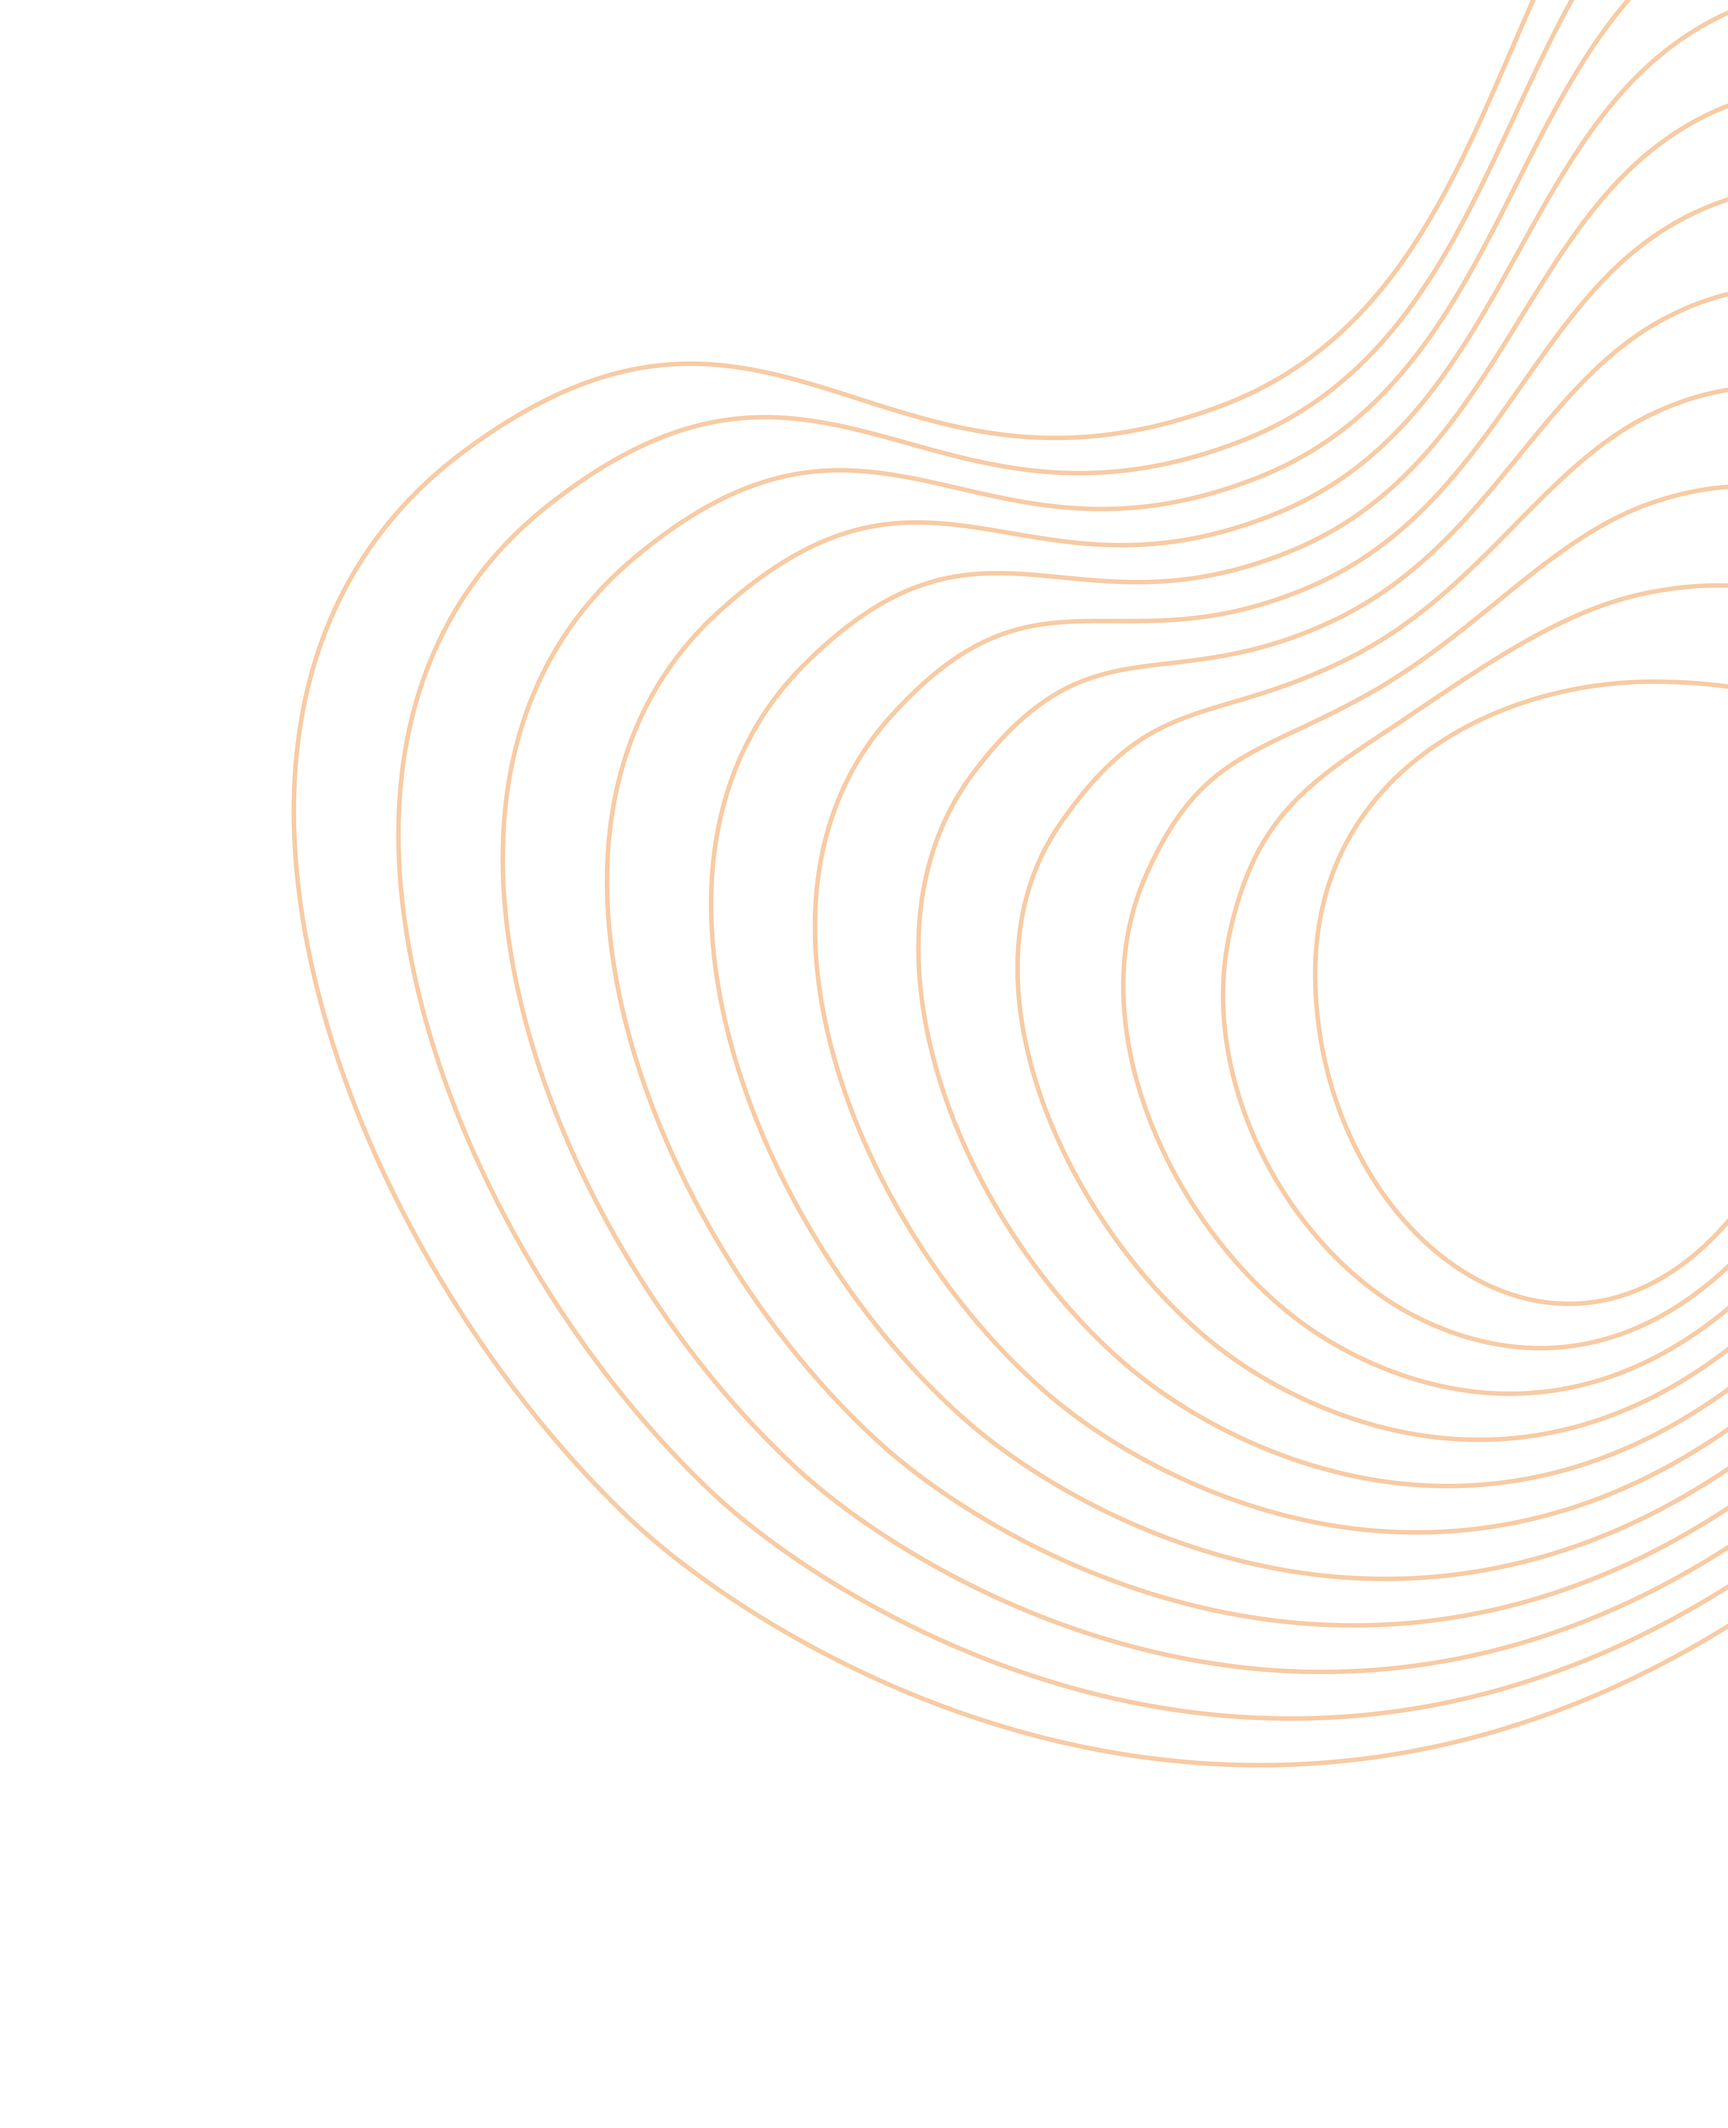
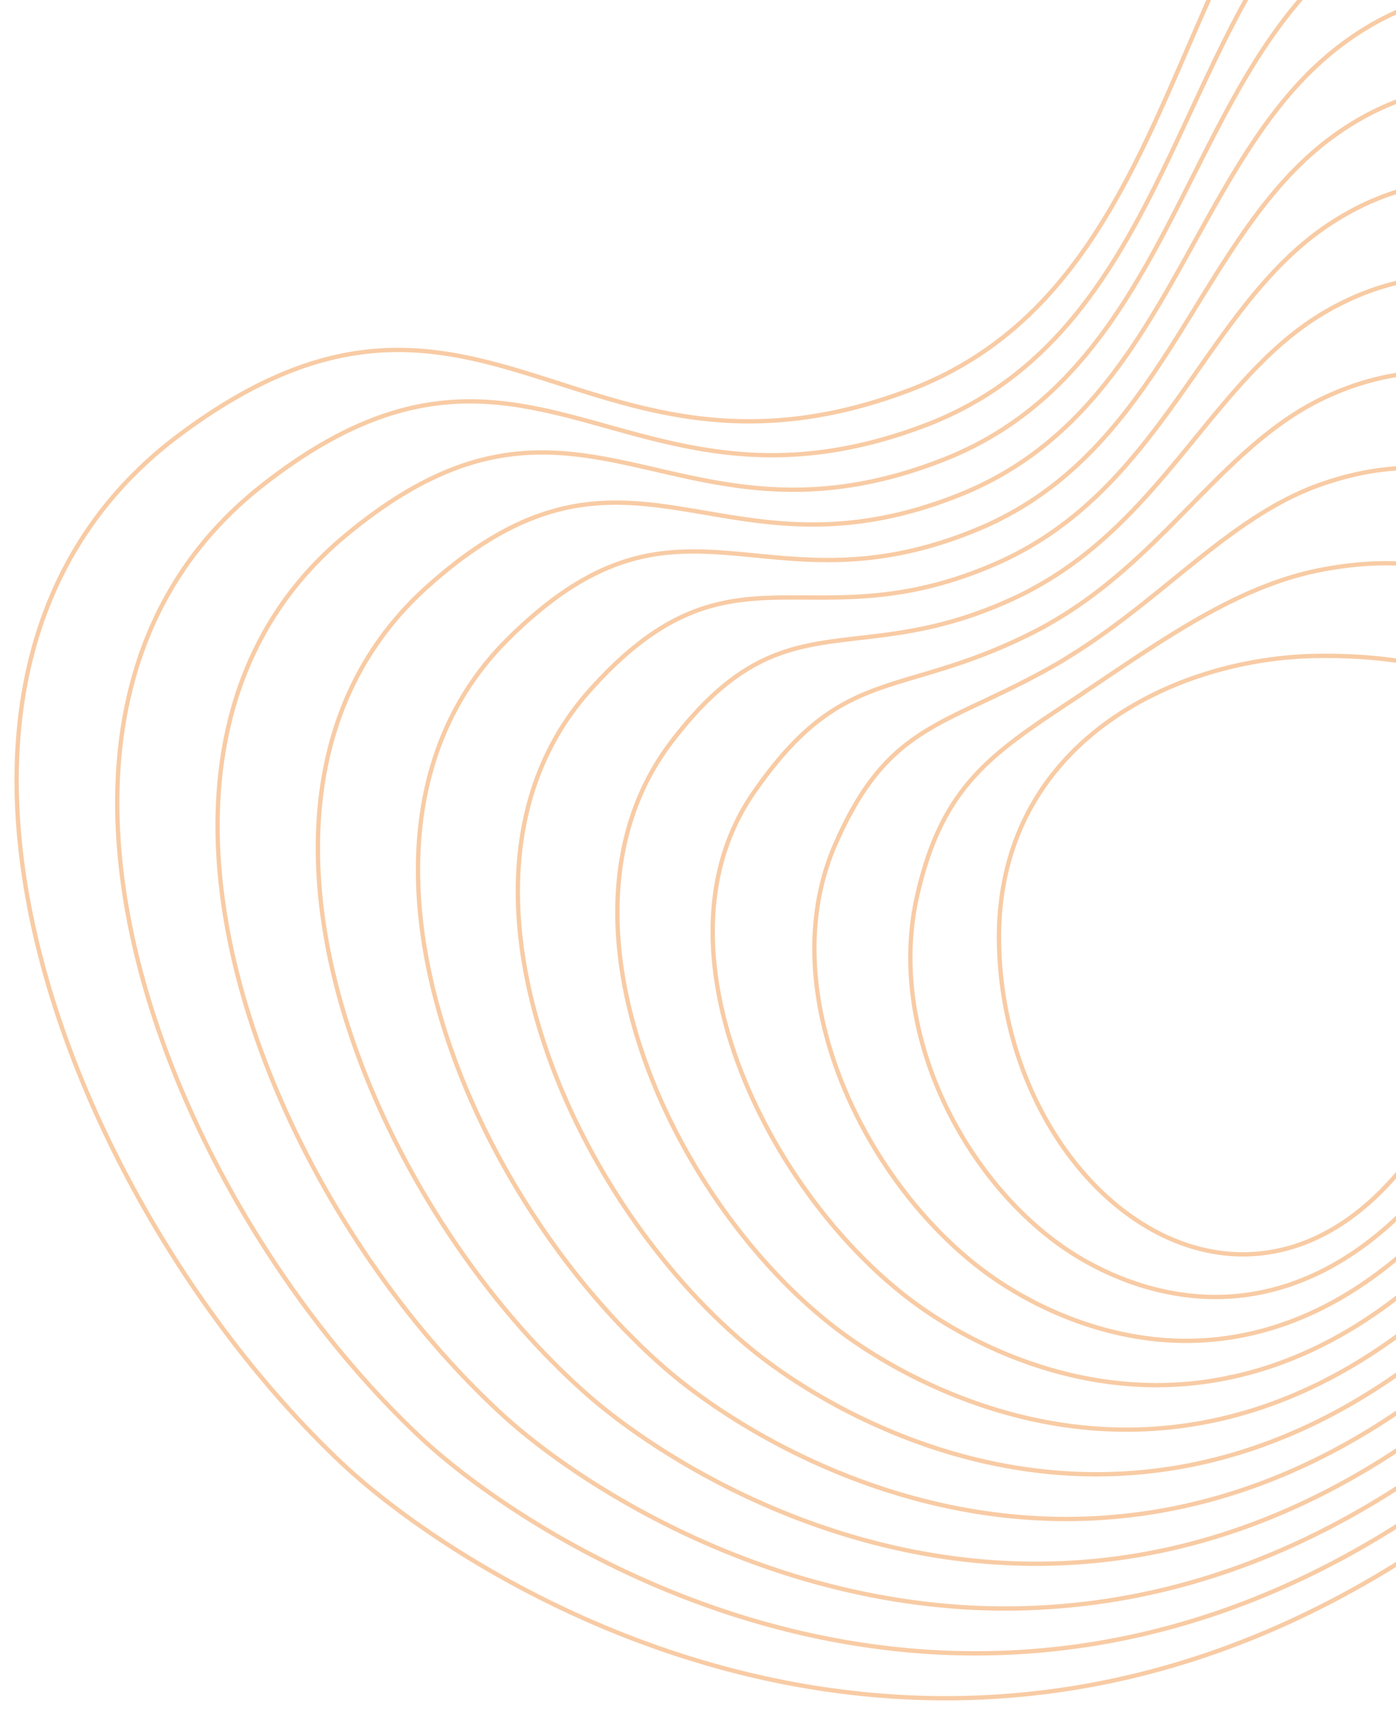
Feature: Update hero section button text, adjust styles for improved layout, and enhance position selection UI

diff --git a/src/modules/careers/sections/open-position-section/positions/positions-list.ts b/src/modules/careers/sections/open-position-section/positions/positions-list.ts
@@ -6,33 +6,9 @@ export const positionsList: Department[] = [
     id: 1,
     positions: [
       {
-        title: 'UI-UX Designer',
-        heading: 'Experienced UI-UX Designer',
-        isOpening: true,
-        description:
-          "Lorem Ipsum is simply dummy text of the printing and typesetting industry. Lorem Ipsum has been the industry's standard dummy text ever since the 1500s. Lorem Ipsum is simply dummy text of the printing and typesetting industry. Lorem Ipsum has been the industry's standard dummy text ever since the 1500s",
-        skills: [
-          {
-            title: 'Figma',
-            description:
-              'Lorem ipsum dolor sit amet, consectetur adipiscing elit.',
-          },
-          {
-            title: 'Problem Solving',
-            description:
-              'Lorem ipsum dolor sit amet, consectetur adipiscing elit.',
-          },
-          {
-            title: 'Adobe XD',
-            description:
-              'Lorem ipsum dolor sit amet, consectetur adipiscing elit.',
-          },
-        ],
-      },
-      {
         title: 'Frontend Developer',
         heading: 'React.js Frontend Developer',
-        isOpening: false,
+        isOpening: true,
         description:
           'Seeking a skilled React.js developer to build and maintain user-facing applications with modern UI frameworks.',
         skills: [
@@ -56,13 +32,43 @@ export const positionsList: Department[] = [
     ],
   },
   {
+    department: 'UI-UX Designer',
     id: 2,
+    positions: [
+      {
+        title: 'UI-UX Designer',
+        heading: 'Experienced UI-UX Designer',
+        isOpening: true,
+        description:
+          "Lorem Ipsum is simply dummy text of the printing and typesetting industry. Lorem Ipsum has been the industry's standard dummy text ever since the 1500s. Lorem Ipsum is simply dummy text of the printing and typesetting industry. Lorem Ipsum has been the industry's standard dummy text ever since the 1500s",
+        skills: [
+          {
+            title: 'Figma',
+            description:
+              'Lorem ipsum dolor sit amet, consectetur adipiscing elit.',
+          },
+          {
+            title: 'Problem Solving',
+            description:
+              'Lorem ipsum dolor sit amet, consectetur adipiscing elit.',
+          },
+          {
+            title: 'Adobe XD',
+            description:
+              'Lorem ipsum dolor sit amet, consectetur adipiscing elit.',
+          },
+        ],
+      },
+    ],
+  },
+  {
+    id: 3,
     department: 'Management',
     positions: [
       {
         title: 'Project Manager',
         heading: 'Agile Project Manager',
-        isOpening: false,
+        isOpening: true,
         description:
           'We are looking for a detail-oriented Project Manager to oversee software development projects using Agile methodologies.',
         skills: [
@@ -85,13 +91,13 @@ export const positionsList: Department[] = [
     ],
   },
   {
-    id: 3,
+    id: 4,
     department: 'Sales',
     positions: [
       {
         title: 'Sales Executive',
         heading: 'B2B Sales Executive',
-        isOpening: false,
+        isOpening: true,
         description:
           'Join our sales team to drive business growth by acquiring new clients and maintaining strong relationships.',
         skills: [
@@ -115,7 +121,7 @@ export const positionsList: Department[] = [
     ],
   },
   {
-    id: 4,
+    id: 5,
     department: 'Admin',
     positions: [
       {
@@ -144,7 +150,7 @@ export const positionsList: Department[] = [
     ],
   },
   {
-    id: 5,
+    id: 6,
     department: 'Marketing',
     positions: [
       {

diff --git a/src/modules/careers/sections/open-position-section/positions/styles.scss b/src/modules/careers/sections/open-position-section/positions/styles.scss
@@ -6,18 +6,20 @@
   border: 2px solid #f5f5f5;
   background: var(--global-color-primary);
   display: flex;
+
   .left-section {
     padding-top: 30px;
     width: 380px;
-    height: 501px;
+    height: 498px;
     flex-shrink: 0;
     background-color: #f5f5f5;
     display: flex;
     flex-direction: column;
     justify-content: center;
-    gap: 10px;
     padding: 60px 0px 60px 40px;
-    border-radius: 20px;
+    border-radius: 20px 0 0 20px;
+
+
 
     .position {
       cursor: pointer;
@@ -29,27 +31,68 @@
       font-weight: 600;
       line-height: 30px;
       width: 100%;
-      border-top-left-radius: 10px;
-      border-bottom-left-radius: 10px;
+      border-top-left-radius: 20px;
+      border-bottom-left-radius: 20px;
       color: #B2B7B8;
 
       &:hover {
         color: #132427;
       }
     }
+
     .selected {
       background: var(--global-color-primary);
       color: #eb7c0d;
+      position: relative;
 
       &:hover {
         color: #eb7c0d;
       }
+
+      &::before {
+        content: "";
+        position: absolute;
+        width: 15px;
+        height: 15px;
+        background-color: #fff;
+        top: -15px;
+        right: 0;
+        clip-path: polygon(47% 74%, 63% 61%, 76% 46%, 85% 33%, 92% 20%, 100% 0, 100% 40%, 100% 78%, 100% 100%, 0 100%, 18% 92%, 33% 84%);
+      }
+
+      &::after {
+        content: "";
+        position: absolute;
+        width: 20px;
+        height: 15px;
+        background-color: #fff;
+        bottom: -12px;
+        right: 0;
+        clip-path: polygon(26% 17%, 16% 10%, 0 0, 100% 0, 100% 100%, 91% 82%, 84% 71%, 76% 60%, 65% 50%, 56% 41%, 46% 32%, 35% 23%);
+      }
     }
+
+    .above-selected {
+      border-bottom-right-radius: 20px;
+      position: relative;
+
+
+    }
+
+    .below-selected {
+      border-top-right-radius: 20px;
+      position: relative;
+
+
+    }
+
   }
+
   .right-section {
     padding: 40px 60px;
     overflow: scroll;
     flex: 1;
+
     .department-title {
       color: #132427;
       font-feature-settings: "liga" off, "clig" off;
@@ -60,6 +103,7 @@
       line-height: 36px;
       text-transform: capitalize;
       margin-bottom: 10px;
+
       .chip-label {
         font-size: 11px;
         margin-left: 10px;
@@ -76,6 +120,7 @@
       line-height: 30px;
       margin-bottom: 10px;
     }
+
     .skills-set-wrapper {
       margin-top: 30px;
       margin-bottom: 30px;
@@ -83,11 +128,13 @@
       display: flex;
       flex-wrap: wrap;
       gap: 20px;
+
       .skills-container {
         width: calc(50% - 10px);
         display: flex;
         flex-direction: column;
         gap: 12px;
+
         .skills-title {
           color: #132427;
           font-feature-settings: "liga" off, "clig" off;
@@ -97,6 +144,7 @@
           font-weight: 600 !important;
           line-height: 28px;
         }
+
         .skills-description {
           color: #757575;
           font-feature-settings: "liga" off, "clig" off;
@@ -107,6 +155,7 @@
           font-weight: 400;
           line-height: 30px;
         }
+
         .selected {
           background-color: var(--global-color-primary);
         }

diff --git a/src/modules/careers/sections/open-position-section/positions/index.tsx b/src/modules/careers/sections/open-position-section/positions/index.tsx
@@ -13,8 +13,8 @@ interface SkillsCardProps {
 
 const Positions = () => {
   const [selectedDepartment, setSelectedDepartment] = useState<
-    Department | undefined
-  >(positionsList.find((dept) => dept.positions.some((pos) => pos.isOpening)))
+    Department
+  >(positionsList.find((dept) => dept.positions.some((pos) => pos.isOpening)) ?? positionsList[0])
 
   const hasOpenPosition = selectedDepartment?.positions.some(
     (position) => position.isOpening
@@ -28,11 +28,14 @@ const Positions = () => {
     <Box className="positions">
       <Box className="left-section">
         {positionsList.map((department, index) => {
+          const isSelected = selectedDepartment?.id === department.id
+          const aboveSelected = selectedDepartment.id - 1 === department.id;
+          const belowSelected = selectedDepartment.id + 1 === department.id;
           return (
             <Typography
-              className={`position ${
-                selectedDepartment?.id === department.id ? 'selected' : ''
-              }`}
+              className={`position ${isSelected ? 'selected' : ''} 
+                          ${aboveSelected ? 'above-selected' : ''}
+                          ${belowSelected ? 'below-selected' : ''}`}
               key={index}
               onClick={() => selectPosition(department)}
               sx={{
@@ -51,6 +54,7 @@ const Positions = () => {
       <Box className="right-section">
         {hasOpenPosition ? (
           selectedDepartment?.positions.map((department, index) => {
+            console.log(department.description)
             return (
               <Box key={index}>
                 <Typography component="h1" className="department-title">

diff --git a/src/modules/careers/sections/hero-section/styles.scss b/src/modules/careers/sections/hero-section/styles.scss
@@ -5,12 +5,10 @@
   align-items: center;
   overflow: hidden;
   padding: 0 5%;
-  max-width: 1900px;
+  max-width: 1920px;
   margin: auto;
   max-height: 1080px;
-  @media screen and (max-width: 1499px) {
-    padding: 0;
-  }
+
   .hero-section {
     display: flex;
     flex-direction: column;
@@ -63,14 +61,14 @@
     }
 
     .text-description {
-      width: 728px;
+      width: 784px;
       color: #757575 !important;
       font-feature-settings: "liga" off, "clig" off;
       font-family: Poppins;
       font-size: 24px !important;
       font-style: normal;
       font-weight: 400 !important;
-      line-height: normal;
+      line-height: 38px;
       letter-spacing: 0.48px;
       margin-bottom: 40px;
 
@@ -82,24 +80,7 @@
 
     }
   }
-  // .base-button {
-  //   margin-top: 60px;
-  //   width: 320px;
-  //   height: 70px;
-  //   flex-shrink: 0;
-  //   color: #fff;
-  //   font-family: Inter;
-  //   font-size: 25.6px !important;
-  //   font-style: normal;
-  //   font-weight: 600 !important;
-  //   line-height: normal;
-  //   text-transform: uppercase !important;
-  //   border-radius: 8px !important;
-  // }
-  .explore-button {
-    width: 180px;
-    text-transform: "uppercase !important";
-  }
+
 
   .hero-section-image-wrapper {
     flex: 1;
@@ -118,8 +99,8 @@
         position: absolute;
         top: -25%;
         right: -60%;
-        width: 998px;
-        height: 877;
+        width: 675px;
+        height: 830px;
         flex-shrink: 0;
       }
       .hero-section-circle-image {

diff --git a/src/modules/careers/sections/hero-section/index.tsx b/src/modules/careers/sections/hero-section/index.tsx
@@ -32,8 +32,7 @@ const HeroSection = () => {
             action, simplifying tech to deliver user-centered solutions.
           </Typography>
         </Box>
-        <BaseButton sx={{ width: '180px' }}>EXPLORE MORE</BaseButton>
-        {/* <BaseButton className="base-button">Explore More</BaseButton> */}
+        <BaseButton sx={{ width: '180px' }}>JOIN NOW</BaseButton>
       </Box>
       <Box className="hero-section-image-wrapper">
         <Box className="image-container">

diff --git a/src/modules/careers/sections/types.ts b/src/modules/careers/sections/types.ts
@@ -12,7 +12,7 @@ export interface Position {
 }
 
 export interface Department {
-  department: string
-  id: number
-  positions: Position[]
+  department: string;
+  id: number;
+  positions: Position[];
 }
